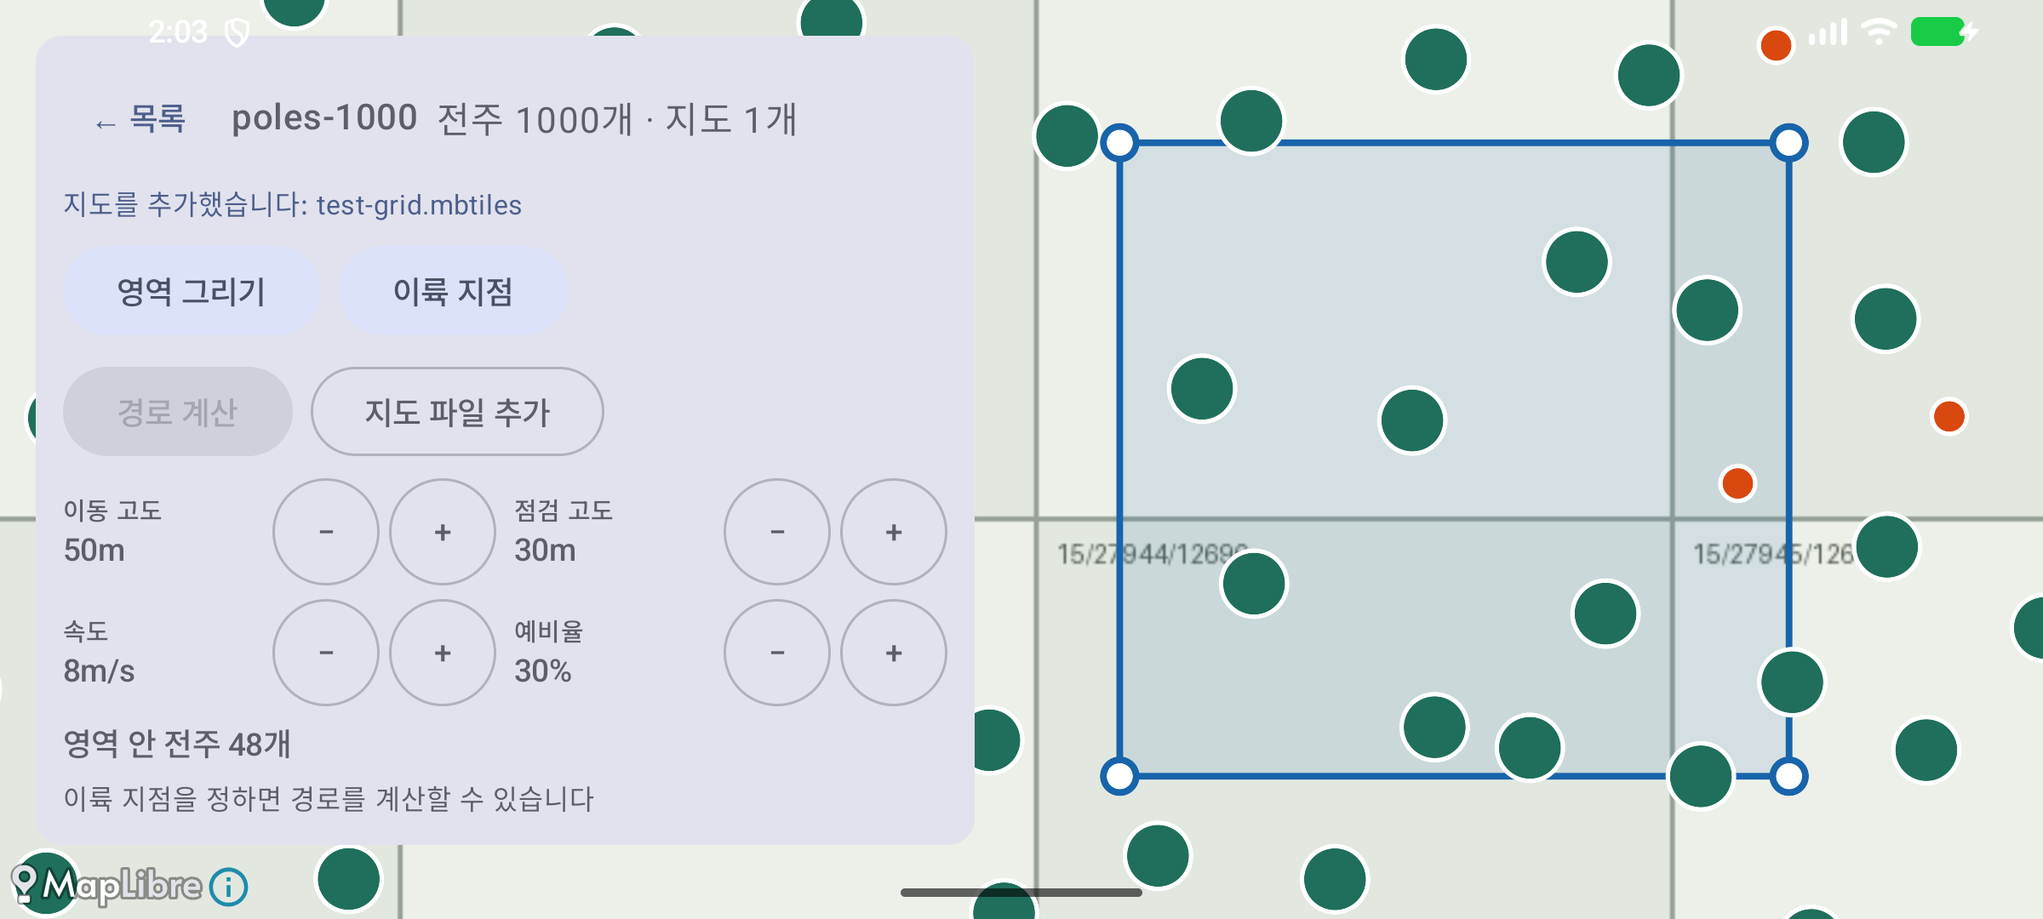
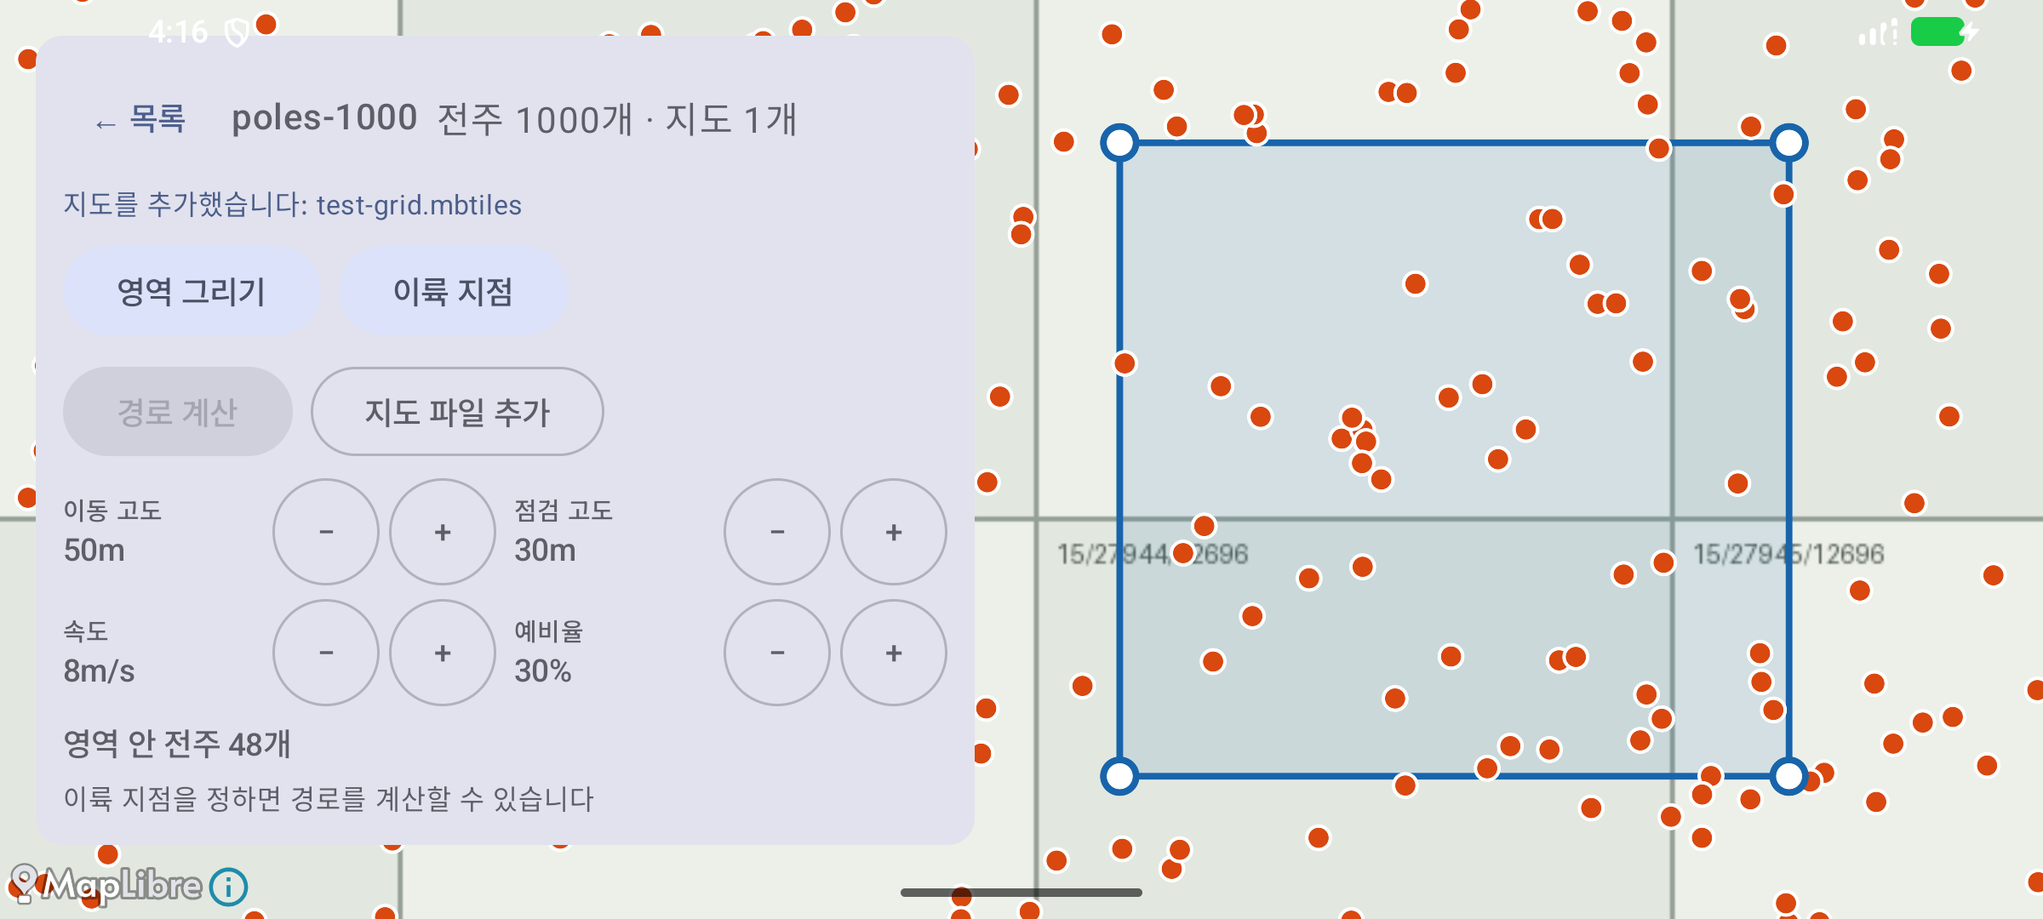
지도: 전주 클러스터링 제거, 줌에 따라 크기가 바뀌는 개별 점
- 사용자 요청으로 전주를 묶지 않고 하나하나 점으로 표시(N-04, 10장, 3.3 설계 수정)
- 축소하면 점을 작게, 확대하면 누르기 쉽게 크게
- 지도 스모크 스크립트의 확인 문구를 현재 패널에 맞춤, 증빙 재실행

Claude-Session: https://claude.ai/code/session_015Z9EcFemBP3uEnCEqFVuPY

diff --git a/app/src/main/java/com/example/myfirstapp/ui/MapScreen.kt b/app/src/main/java/com/example/myfirstapp/ui/MapScreen.kt
@@ -76,12 +76,12 @@ import org.maplibre.android.maps.Style
 import org.maplibre.android.style.expressions.Expression.eq
 import org.maplibre.android.style.expressions.Expression.geometryType
 import org.maplibre.android.style.expressions.Expression.get
-import org.maplibre.android.style.expressions.Expression.has
+import org.maplibre.android.style.expressions.Expression.interpolate
+import org.maplibre.android.style.expressions.Expression.linear
 import org.maplibre.android.style.expressions.Expression.literal
 import org.maplibre.android.style.expressions.Expression.neq
-import org.maplibre.android.style.expressions.Expression.not
 import org.maplibre.android.style.expressions.Expression.stop
-import org.maplibre.android.style.expressions.Expression.step
+import org.maplibre.android.style.expressions.Expression.zoom
 import org.maplibre.android.style.layers.CircleLayer
 import org.maplibre.android.style.layers.FillLayer
 import org.maplibre.android.style.layers.LineLayer
@@ -93,7 +93,6 @@ import org.maplibre.android.style.layers.PropertyFactory.fillColor
 import org.maplibre.android.style.layers.PropertyFactory.fillOpacity
 import org.maplibre.android.style.layers.PropertyFactory.lineColor
 import org.maplibre.android.style.layers.PropertyFactory.lineWidth
-import org.maplibre.android.style.sources.GeoJsonOptions
 import org.maplibre.android.style.sources.GeoJsonSource
 import org.maplibre.geojson.Feature
 import org.maplibre.geojson.FeatureCollection
@@ -106,9 +105,13 @@ import org.maplibre.geojson.Polygon as GeoJsonPolygon
 /** 지도 도구. AREA는 누를 때마다 꼭짓점을 더하고, HOME은 한 번 눌러 이륙 지점을 정한다. */
 private enum class Tool { NONE, AREA, HOME }
 
-/** 소티별 경로 색. 클러스터(초록)·전주(주황)·영역(파랑)과 겹치지 않는 색을 돌려 쓴다. */
+/** 소티별 경로 색. 전주(주황)·제외(회색)·영역(파랑)과 겹치지 않는 색을 돌려 쓴다. */
 private val SORTIE_COLORS = listOf("#9C36B5", "#0C8599", "#C2255C", "#F59F00", "#3B5BDB")
 private const val AREA_COLOR = "#1864AB"
+
+// 전주 점 크기: 축소하면 작게(전체 1,000개가 서로 덜 겹치게), 확대하면 손가락으로 누르기 쉽게 키운다.
+private val POLE_RADIUS = interpolate(linear(), zoom(), stop(11, 2.5f), stop(14, 4.5f), stop(16, 7f))
+private val POLE_STROKE = interpolate(linear(), zoom(), stop(11, 0.5f), stop(14, 1.5f), stop(16, 2f))
 
 /** 계획 화면 ③(10장): 전주 지도, 영역(다각형) 그리기, 이륙 지점, 경로와 소티 미리보기. */
 @Composable
@@ -366,7 +369,7 @@ private data class Overlay(val vertices: List<GeoPoint>, val home: GeoPoint?, va
 
 /**
  * MapLibre 지도. 배경은 앱 전용 폴더의 MBTiles를 모두 겹쳐 그린다(지역별 파일). 네트워크 소스는 쓰지 않는다.
- * ponytail: 글리프(폰트) 파일이 없어 지도 위 글자(클러스터 개수, 전주번호)는 그리지 않는다. 전주번호는 탭하면 카드로 보여 준다.
+ * ponytail: 글리프(폰트) 파일이 없어 지도 위 글자(전주번호)는 그리지 않는다. 전주번호는 탭하면 카드로 보여 준다.
  */
 @Composable
 private fun PoleMap(
@@ -419,11 +422,7 @@ private fun PoleMap(
                 val p = map.projection.toScreenLocation(latLng)
                 val touch = 24 * density // 장갑 낀 손가락 기준 48dp 영역
                 val box = RectF(p.x - touch, p.y - touch, p.x + touch, p.y + touch)
-                if (map.queryRenderedFeatures(box, "clusters").isNotEmpty()) {
-                    map.animateCamera(CameraUpdateFactory.newLatLngZoom(latLng, map.cameraPosition.zoom + 2))
-                } else {
-                    onClick(map.queryRenderedFeatures(box, "poles-point").firstOrNull()?.getStringProperty("poleId"))
-                }
+                onClick(map.queryRenderedFeatures(box, "poles-point").firstOrNull()?.getStringProperty("poleId"))
                 true
             }
         }
@@ -435,13 +434,8 @@ private fun PoleMap(
                 val features = poles.map {
                     Feature.fromGeometry(Point.fromLngLat(it.lon, it.lat)).apply { addStringProperty("poleId", it.poleId) }
                 }
-                // N-04: 전주 1,000개 이상에서도 원활하도록 클러스터링한다.
-                style.addSource(
-                    GeoJsonSource(
-                        "poles", FeatureCollection.fromFeatures(features),
-                        GeoJsonOptions().withCluster(true).withClusterRadius(50).withClusterMaxZoom(15),
-                    ),
-                )
+                // 전주는 묶지 않고 하나하나 점으로 그린다(N-04). 1,000개 수준의 원 레이어는 MapLibre가 무리 없이 그린다.
+                style.addSource(GeoJsonSource("poles", FeatureCollection.fromFeatures(features)))
                 // 영역과 경로는 전주 아래에, 꼭짓점과 이륙 지점은 맨 위에 그린다.
                 style.addSource(GeoJsonSource("draw"))
                 style.addSource(GeoJsonSource("route"))
@@ -460,18 +454,11 @@ private fun PoleMap(
                         .withProperties(lineColor(get("color")), lineWidth(4f)),
                 )
                 style.addLayer(
-                    CircleLayer("clusters", "poles").withFilter(has("point_count")).withProperties(
-                        circleColor("#1F6F5C"),
-                        circleRadius(step(get("point_count"), literal(14f), stop(50, 18f), stop(200, 24f))),
-                        circleStrokeColor("#FFFFFF"), circleStrokeWidth(2f),
+                    CircleLayer("poles-point", "poles").withProperties(
+                        circleColor("#D9480F"), circleRadius(POLE_RADIUS), circleStrokeColor("#FFFFFF"), circleStrokeWidth(POLE_STROKE),
                     ),
                 )
-                style.addLayer(
-                    CircleLayer("poles-point", "poles").withFilter(not(has("point_count"))).withProperties(
-                        circleColor("#D9480F"), circleRadius(7f), circleStrokeColor("#FFFFFF"), circleStrokeWidth(2f),
-                    ),
-                )
-                // 경로가 꺾이는 곳마다 방문 전주를 소티 색 점으로 찍는다. 클러스터에 가려도 꺾이는 이유가 보이게 클러스터 위에 그린다.
+                // 경로가 꺾이는 곳마다 방문 전주를 소티 색 점으로 찍는다(꺾이는 곳이 전주임을 보이게).
                 style.addLayer(
                     CircleLayer("route-stop", "route").withFilter(eq(geometryType(), literal("Point"))).withProperties(
                         circleColor("#FFFFFF"), circleRadius(5f), circleStrokeColor(get("color")), circleStrokeWidth(3f),
@@ -480,7 +467,7 @@ private fun PoleMap(
                 // 제외한 전주(F-06)는 원래 점 위에 회색으로 덮어 그린다.
                 style.addLayer(
                     CircleLayer("excluded-point", "excluded").withProperties(
-                        circleColor("#868E96"), circleRadius(7f), circleStrokeColor("#FFFFFF"), circleStrokeWidth(2f),
+                        circleColor("#868E96"), circleRadius(POLE_RADIUS), circleStrokeColor("#FFFFFF"), circleStrokeWidth(POLE_STROKE),
                     ),
                 )
                 style.addLayer(

diff --git a/docs/design/01-architecture.md b/docs/design/01-architecture.md
@@ -77,7 +77,7 @@ flowchart TB
 
 > **1차는 3개 모듈로 시작한다**: `:app`(UI, 데이터, `FakeDroneGateway`, 탐지기는 패키지로 구분) + `:core`(JVM: model, domain, route 통합) + `:drone:dji`. 위 표의 세분화는 규모가 커질 때 `:core`와 `:app`에서 패키지 단위로 분리해 나간다. 기체 능력 차이(렌즈 목록, 줌)는 `DroneGateway`가 능력(capabilities)으로 노출해, 새 기체를 추가해도 도메인이 바뀌지 않게 한다.
 
-**`:core` 패키지 구성(구현됨)**: `com.example.myfirstapp.core` 아래에 `model`(도메인 모델, `FlightParams` 검증), `port`(`DroneGateway`, `Detector`, `Notifier`, `StorageMonitor`, `InspectionRecorder`), `csv`(`PoleCsvParser`), `route`(투영, 다각형, `TspSolver`, `RoutePlanner`, `EnergyModel`), `executor`(`InspectionExecutor`, `PreflightEvaluator`), `fake`(`FakeDroneGateway`)를 둔다. `:app`의 `data` 패키지(구현됨)에는 Room `AppDatabase`와 `ProjectDao`(가져오기 트랜잭션)를 둔다. 화면 ①·②는 `:app`의 `ui/ProjectScreen.kt` 한 화면(왼쪽 목록, 오른쪽 가져오기)으로 구현했고, `InspectionApp`(`Application`)이 DB를 만든다. 지도는 `ui/MapScreen.kt`(MapLibre, `maps/*.mbtiles`를 모두 겹쳐 표시, 전주 클러스터링)이며, 글리프 파일이 없어 지도 위 글자는 그리지 않고 전주를 누르면 카드로 보여 준다. 같은 화면이 계획 화면 ③을 겸해 다각형 영역, 이륙 지점, 소티별 경로를 그리고 `RoutePlanner`로 계산한다(`Dispatchers.Default`). 비행 화면 ④는 `ui/FlightScreen.kt`이며, 저장한 `MISSION`을 읽어 `InspectionExecutor`를 실행하고 기록은 `data/RoomRecorder.kt`(`InspectionRecorder` 구현)가 Room과 이미지 폴더(4.3)에 남긴다. `FakeDroneGateway`는 순수 Kotlin이므로 `:app`이 아니라 `:core`에 두어 단위 테스트와 앱(에뮬레이터 시연)이 함께 쓴다.
+**`:core` 패키지 구성(구현됨)**: `com.example.myfirstapp.core` 아래에 `model`(도메인 모델, `FlightParams` 검증), `port`(`DroneGateway`, `Detector`, `Notifier`, `StorageMonitor`, `InspectionRecorder`), `csv`(`PoleCsvParser`), `route`(투영, 다각형, `TspSolver`, `RoutePlanner`, `EnergyModel`), `executor`(`InspectionExecutor`, `PreflightEvaluator`), `fake`(`FakeDroneGateway`)를 둔다. `:app`의 `data` 패키지(구현됨)에는 Room `AppDatabase`와 `ProjectDao`(가져오기 트랜잭션)를 둔다. 화면 ①·②는 `:app`의 `ui/ProjectScreen.kt` 한 화면(왼쪽 목록, 오른쪽 가져오기)으로 구현했고, `InspectionApp`(`Application`)이 DB를 만든다. 지도는 `ui/MapScreen.kt`(MapLibre, `maps/*.mbtiles`를 모두 겹쳐 표시, 전주는 묶지 않고 줌에 따라 크기가 바뀌는 점)이며, 글리프 파일이 없어 지도 위 글자는 그리지 않고 전주를 누르면 카드로 보여 준다. 같은 화면이 계획 화면 ③을 겸해 다각형 영역, 이륙 지점, 소티별 경로를 그리고 `RoutePlanner`로 계산한다(`Dispatchers.Default`). 비행 화면 ④는 `ui/FlightScreen.kt`이며, 저장한 `MISSION`을 읽어 `InspectionExecutor`를 실행하고 기록은 `data/RoomRecorder.kt`(`InspectionRecorder` 구현)가 Room과 이미지 폴더(4.3)에 남긴다. `FakeDroneGateway`는 순수 Kotlin이므로 `:app`이 아니라 `:core`에 두어 단위 테스트와 앱(에뮬레이터 시연)이 함께 쓴다.
 
 ### 3.4 기술 스택
 

diff --git a/docs/evidence/2026-09-29-plan-save/README.md b/docs/evidence/2026-09-29-plan-save/README.md
@@ -31,7 +31,7 @@
 | 1. 영역 완료 | 파라미터 기본값(이동 50m, 점검 30m, 8m/s, 예비율 30%), "영역 안 전주 48개" | ![](1-params-default.png) |
 | 2. 범위 검사 | 이동 고도를 25m로 내리면 "이동 고도는 30~120m여야 합니다." 문구가 나오고 [경로 계산]이 비활성이 된다. 50m로 되돌리고 예비율은 40%로 올린다 | ![](2-params-invalid.png) |
 | 3. 전주 제외 | 전주 카드에 "경로에서 제외됨"이 나오고, 패널에 "영역 안 전주 48개 · 제외 1개"가 나온다. 지도에는 회색 점으로 표시된다 | ![](3-excluded.png) |
-| 4. 계산과 저장 | 소티 3개(14·10·14개)가 나오고, "계획을 저장했습니다: 미션 #1"과 [저장됨]이 표시된다(비행 화면을 추가한 뒤로는 [비행 시작]으로 바뀌며 스크립트도 이를 확인한다). 경로가 꺾이는 곳마다 방문 전주 점이 찍힌다 | ![](4-saved.png) |
+| 4. 계산과 저장 | 소티 3개(13·12·13개)가 나오고, "계획을 저장했습니다: 미션 #1"과 [저장됨]이 표시된다(비행 화면을 추가한 뒤로는 [비행 시작]으로 바뀌며 스크립트도 이를 확인한다). 경로가 꺾이는 곳마다 방문 전주 점이 찍힌다 | ![](4-saved.png) |
 
 ## 3. 계산 결과와 DB 대조
 
@@ -55,10 +55,10 @@
 일치: DB 이륙 지점 = 로그 …
 일치: DB 파라미터 = 로그 기대 [50.0, 30.0, 8.0, 40.0], 앱 [50, 30, 8, 40]
 일치: DB 영역 꼭짓점 = 로그(닫힌 고리, 1e-6° 이내) 기대 True, 앱 True
-일치: DB 소티별 방문 수 = 로그 기대 [14, 10, 14], 앱 [14, 10, 14]
+일치: DB 소티별 방문 수 = 로그 기대 [13, 12, 13], 앱 [13, 12, 13]
 일치: DB 방문 전주 중복 없음 기대 38, 앱 38
 일치: DB 방문 전주는 영역 안, 제외 전주 아님 기대 True, 앱 True
-제외 전주 ['T-0956'], 계산 시간 14ms
+제외 전주 ['T-0828'], 계산 시간 14ms
 ```
 
 영역 좌표는 MapLibre GeoJSON이 소수 7자리(약 1cm)로 반올림해 저장한다. 그래서 오차 1e-6°(약 10cm)까지는 같은 점으로 비교한다.
@@ -70,7 +70,9 @@
 - **줌 15에서는 전주가 클러스터(초록 원)에 가려 보이지 않는다.** 그래서 선이 이유 없이 꺾이는 것처럼 보였다. 실제로 꺾이는 점은 모두 전주다. 이제 방문 전주를 소티 색 테두리의 흰 점으로 클러스터 위에 그린다.
 - **소티를 전체 순회 경로에서 잘라내기만 했다.** 잘라낸 구간은 귀환 구간을 고려하지 않아, 경로가 꼬이거나 되돌아가는 모양이 남았다. 이제 분할한 뒤 소티마다 TSP를 다시 풀고, 더 짧을 때만 순서를 바꾼다(설계서 5.4에 추가).
 
-같은 입력(제외 1개, 예비율 40%)에서 총거리가 4.6km에서 4.4km로 줄었다.
+같은 입력(제외 T-0956, 예비율 40%)에서 총거리가 4.6km에서 4.4km로 줄었다.
+
+> 2026-09-29 재실행: 전주 클러스터링을 없애(사용자 요청) 모든 전주가 점으로 보인다. 그래서 스크립트가 고르는 제외 전주가 T-0828로 바뀌었고, 소티는 13·12·13개가 되었다. 대조 15개는 모두 다시 일치했다.
 
 ## 5. 알려진 한계
 

diff --git a/docs/design/07-test-roadmap.md b/docs/design/07-test-roadmap.md
@@ -40,7 +40,7 @@
 | 상태머신 `InspectionExecutor` + `FakeDroneGateway` | 완료 | 단위 테스트 18개(정상, 일시정지·재개, 재시도, 실패, 연결 끊김, RTH 권고, 다중 소티) |
 | Room(`PROJECT`, `POLE`, 가져오기 트랜잭션) | 완료 | `:app` `data/AppDatabase.kt`, 계측 테스트 2개. 나머지 4.2 엔티티는 3·4단계에서 추가 |
 | 가져오기 화면(① 프로젝트 목록 + ② 가져오기) | 완료 | SAF 파일 선택, 오류 목록, 미리보기, 저장·삭제. 에뮬레이터에서 수동 확인. 컬럼 매핑 화면은 MVP 이후 |
-| MapLibre 오프라인 지도(MBTiles 표시, 전주 클러스터링) | 완료 | `ui/MapScreen.kt`. 네트워크를 끈 상태에서 MBTiles 표시 확인. 시험 데이터는 `tools/make_test_data.py`(합성 격자 타일) |
+| MapLibre 오프라인 지도(MBTiles 표시, 전주 개별 점 표시. 클러스터링은 사용자 요청으로 뺌) | 완료 | `ui/MapScreen.kt`. 네트워크를 끈 상태에서 MBTiles 표시 확인. 시험 데이터는 `tools/make_test_data.py`(합성 격자 타일) |
 | VWorld 타일 내려받기(F-04) | 보류 | 개발 인증키 발급(2026-09-29, 만료 2027-03-29, `secrets/`). 남은 확인: ① 타일 저장·오프라인 사용이 약관상 허용되는지 VWorld에 서면 문의(미정 2) ② 인증키 활용 API에 WMTS/TMS 추가 ③ 운용 전 운영키 신청. 그동안 MBTiles 파일을 SAF로 추가 |
 | 영역 그리기, 경로 미리보기(계획 화면 ③) | 완료 | `ui/MapScreen.kt`. 다각형 그리기(되돌리기), 이륙 지점, 소티별 경로 색과 예상치, 도달 불가 수. 앱 결과를 CSV 재계산으로 대조(`docs/evidence/2026-09-29-plan`) |
 | 핵심 파라미터 4개 UI, 전주 개별 포함/제외(F-06), 계획 저장(`MISSION`·`SORTIE`·`VISIT`) | 완료 | 소티별 재최적화(5.4) 추가. 앱 DB를 꺼내 대조(`docs/evidence/2026-09-29-plan-save`). 기본값 저장(DataStore)과 "고급" 패널은 ⑥ 설정 화면에서 |

diff --git a/docs/design/06-ui-sound.md b/docs/design/06-ui-sound.md
@@ -10,7 +10,7 @@
 |------|-----------|
 | ① 프로젝트 목록 | 프로젝트 카드(전주 수, 점검 진행률), 새 프로젝트, 설정 |
 | ② 데이터 가져오기 | 파일 선택(SAF), 인코딩 자동 판별, 헤더 자동 인식(실패 시에만 컬럼 매핑), 미리보기, 오류 목록 |
-| ③ 계획(지도) | 전체 화면 지도, 전주 마커(상태별 색상, 클러스터), 영역 그리기(사각형/다각형), 선택 전주 수, 경로와 소티 색상, 예상 거리·시간·배터리, 핵심 파라미터 4개(이동 고도, 점검 고도, 속도, 배터리 예비율)와 접힌 "고급" 패널, "비행 시작" |
+| ③ 계획(지도) | 전체 화면 지도, 전주 마커(상태별 색상, 묶지 않고 하나하나 점으로 표시, 축소하면 작은 점), 영역 그리기(사각형/다각형), 선택 전주 수, 경로와 소티 색상, 예상 거리·시간·배터리, 핵심 파라미터 4개(이동 고도, 점검 고도, 속도, 배터리 예비율)와 접힌 "고급" 패널, "비행 시작" |
 | ④ 비행 | **FPV 영상(메인)** + 상단 핵심 상태(배터리, 예상 복귀 필요량, 고도, GPS) + 현재/다음 전주와 진행률 + 대기 카운트다운. **자동 비행 중 버튼은 [RTH](길게 눌러야 동작)뿐**이며 일시정지와 재개는 **RC 하드웨어 버튼**을 쓴다. 일시정지 상태가 되면 보조용 **큰 [재개]** 버튼과 [촬영] [건너뛰기] [완료 처리] [다시 계획]이 나타난다. 미니맵과 최근 썸네일은 기본으로 접혀 있고 탭하면 펼쳐진다. |
 | ⑤ 결과 | 전주 목록과 지도, 사진 뷰어(탐지 박스 표시), 필터(이상만), 원본 일괄 다운로드, 내보내기 |
 | ⑥ 설정 | 오프라인 지도 관리, 모델 관리, 비행 파라미터 기본값과 프리셋, 에너지 모델 보정값, 오프라인 모드, LDM 상태 |

diff --git a/docs/DESIGN.md b/docs/DESIGN.md
@@ -87,7 +87,7 @@
 | N-01 | 인터넷 없이 모든 현장 기능이 동작한다(DJI 앱 등록의 오프라인 가능 여부는 PoC ④에서 확인, 7.2 참고). |
 | N-02 | 외부 전송 금지: 앱이 수집한 데이터는 사용자가 내보내기 전까지 기기 밖으로 나가지 않는다. |
 | N-03 | 화면: RC Pro Enterprise 5.5인치 1920×1080 **가로 고정**, 장갑을 낀 손가락과 햇빛 아래에서도 조작할 수 있어야 한다(큰 버튼, 고대비). |
-| N-04 | 전주 1,000개 이상의 데이터셋에서도 지도가 원활해야 한다(클러스터링). 전주 300개 경로 계산은 3초 이내. |
+| N-04 | 전주 1,000개 이상의 데이터셋에서도 지도가 원활해야 한다(묶지 않고 개별 점으로 표시하며, 축소하면 점을 작게 그린다). 전주 300개 경로 계산은 3초 이내. |
 | N-05 | 앱이 비정상 종료되어도 비행 상태와 점검 진행 상황을 복구한다. |
 | N-06 | 한국어 UI |
 | N-07 | **가시권(VLOS) 비행만 지원**한다. 모든 고도 설정은 법정 상한 150m 이하로 제한한다(RTH 고도 포함). |

diff --git a/CLAUDE.md b/CLAUDE.md
@@ -73,7 +73,7 @@ app/src/main/
 │   ├── data/AppDatabase.kt      # Room DB(4.2 엔티티, TELEMETRY_SAMPLE 제외)와 ProjectDao
 │   ├── data/RoomRecorder.kt     # 실행 기록 포트(InspectionRecorder)의 Room 구현
 │   ├── ui/ProjectScreen.kt      # ① 프로젝트 목록 + ② CSV 가져오기(SAF)
-│   ├── ui/MapScreen.kt          # ③ 계획(MapLibre, MBTiles, 클러스터링, 영역 그리기, 파라미터, 전주 제외, 경로 미리보기, 계획 저장)
+│   ├── ui/MapScreen.kt          # ③ 계획(MapLibre, MBTiles, 전주 개별 점, 영역 그리기, 파라미터, 전주 제외, 경로 미리보기, 계획 저장)
 │   ├── ui/FlightScreen.kt       # ④ 비행(모의 기체, 상태머신 실행, 신호음 알림)
 │   └── ui/theme/                # Compose 테마 (Color, Theme, Type)
 ├── keepRules/rules.keep         # R8 keep 규칙 (AGP 9 방식)

diff --git a/docs/evidence/2026-09-29-map/README.md b/docs/evidence/2026-09-29-map/README.md
@@ -29,3 +29,5 @@ HTML 보고서는 `reports/`에 있다(git 제외).
 
 - 지도 위 글자(클러스터 개수, 전주번호)는 그리지 않는다. 오프라인 글리프(폰트) 파일이 없기 때문이다. 전주번호는 전주를 누르면 카드로 보여 준다.
 - VWorld 타일 내려받기(F-04)는 약관 확인 전까지 보류한다. 그동안 MBTiles 파일을 [지도 파일 추가]로 넣는다.
+
+> 2026-09-29 변경: 사용자 요청으로 클러스터링을 없앴다. 이제 전주를 하나하나 점으로 그리고, 축소하면 점을 작게 그린다. 스크린샷 1·2·5는 새 동작으로 다시 찍었고, 3(클러스터 확대)과 4는 변경 전 화면이다. 5단계 확인 문구는 패널 변경에 맞춰 "전주 1000개 · 지도 1개"로 바꿨다.
